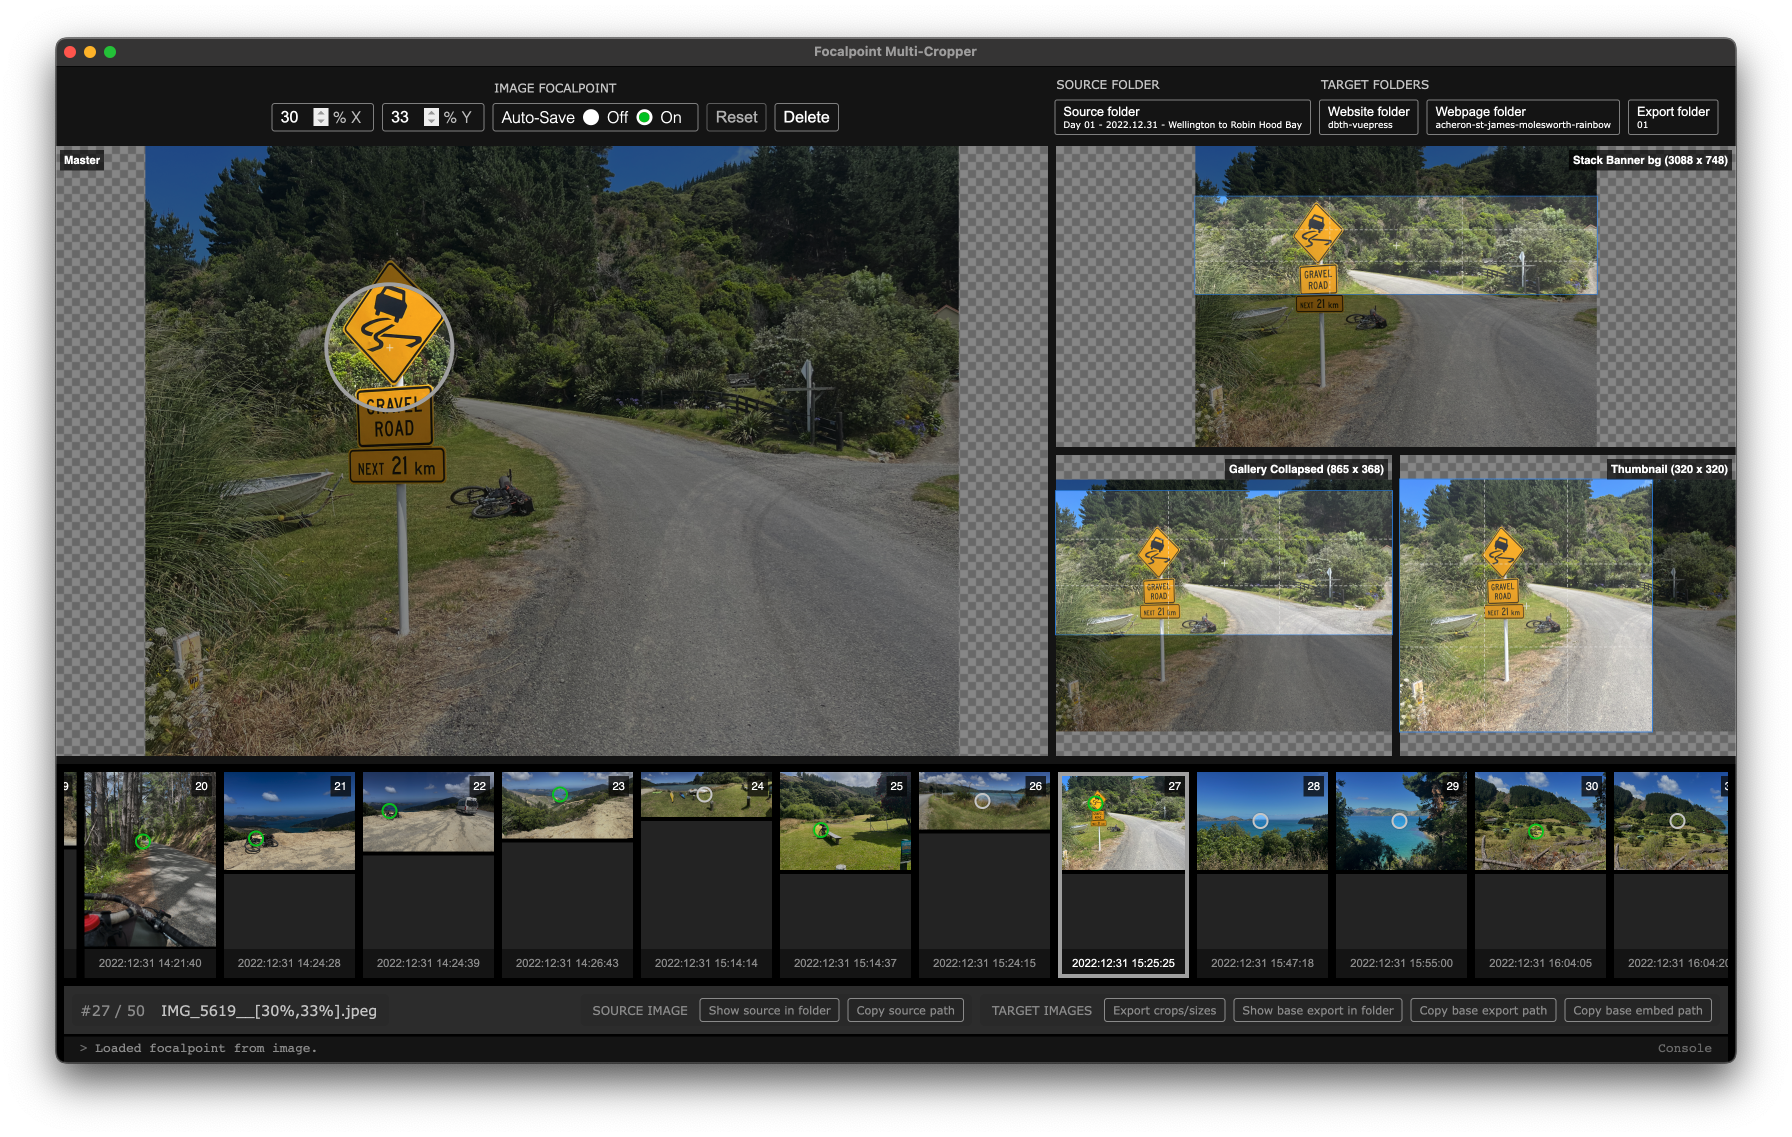
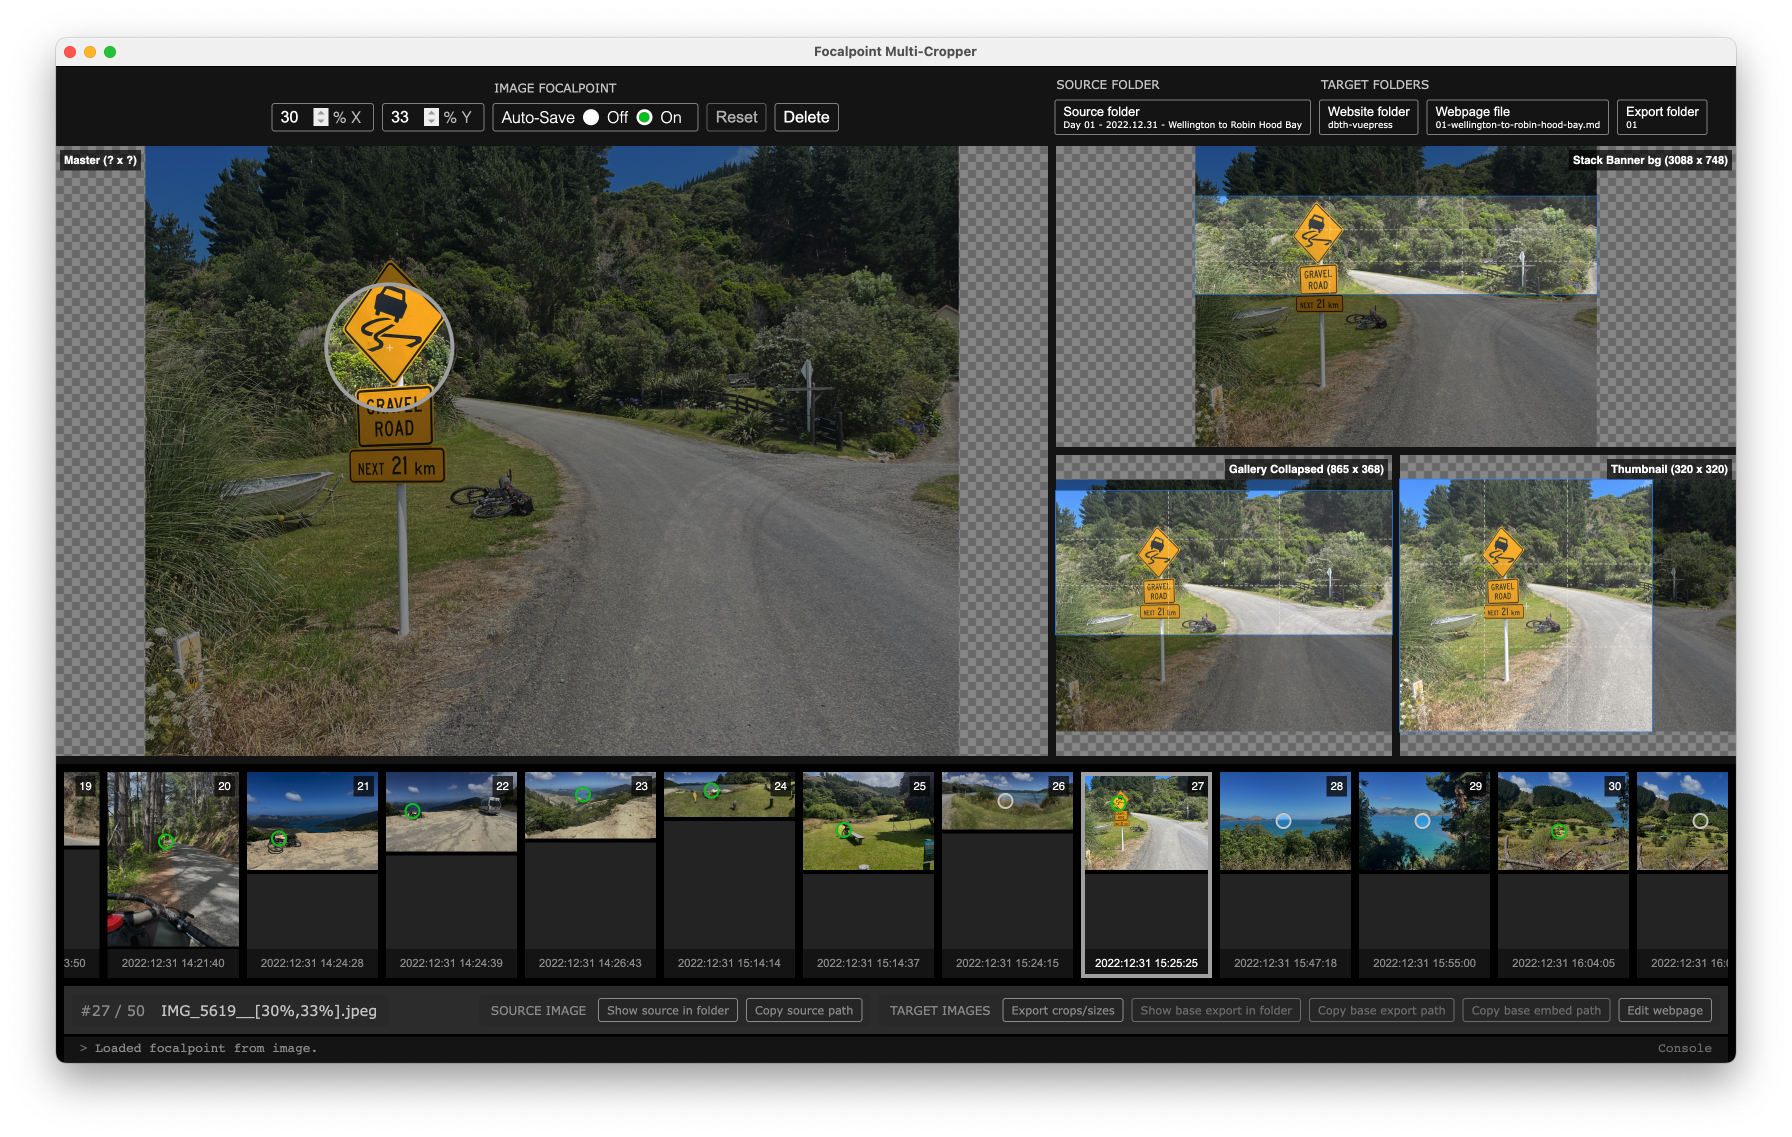
Add Edit webpage button (fixes #42)

diff --git a/index.html b/index.html
@@ -69,8 +69,8 @@
                   <span class="label">Website folder</span>
                   <span class="control-hint"></span>
                 </button>
-                <button type="button" class="control-action" id="folder-webpage">
-                  <span class="label">Webpage folder</span>
+                <button type="button" class="control-action" id="file-webpage">
+                  <span class="label">Webpage file</span>
                   <span class="control-hint"></span>
                 </button>
                 <button type="button" class="control-action" id="folder-out">
@@ -206,6 +206,9 @@
             </button>
             <button type="button" class="control-action control-copy" id="copy-path-web-embed">
               <span class="control-hint">Copy base embed path</span>
+            </button>
+            <button type="button" class="control-action control-edit" id="edit-webpage">
+              <span class="control-hint">Edit webpage</span>
             </button>
           </div>
         </div>
